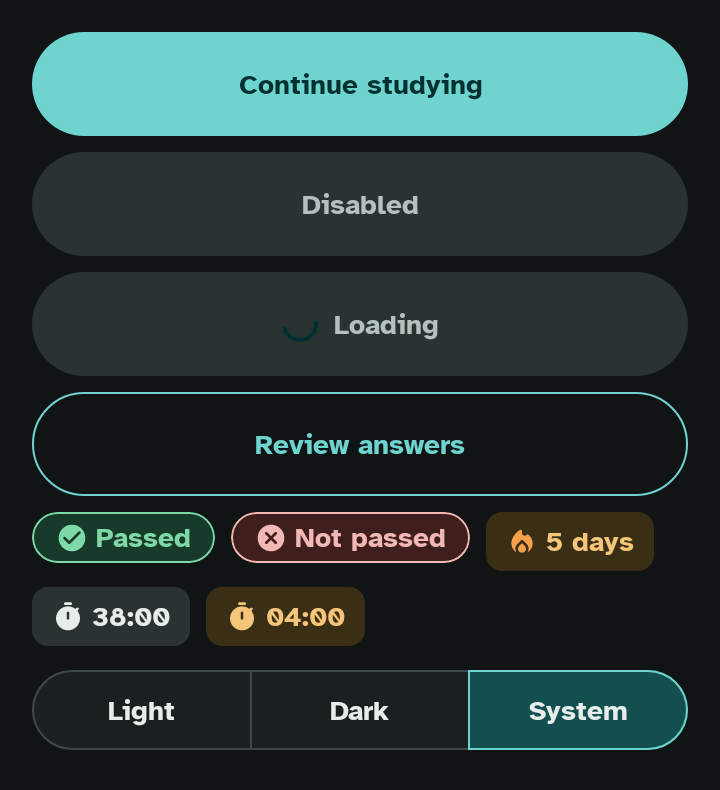
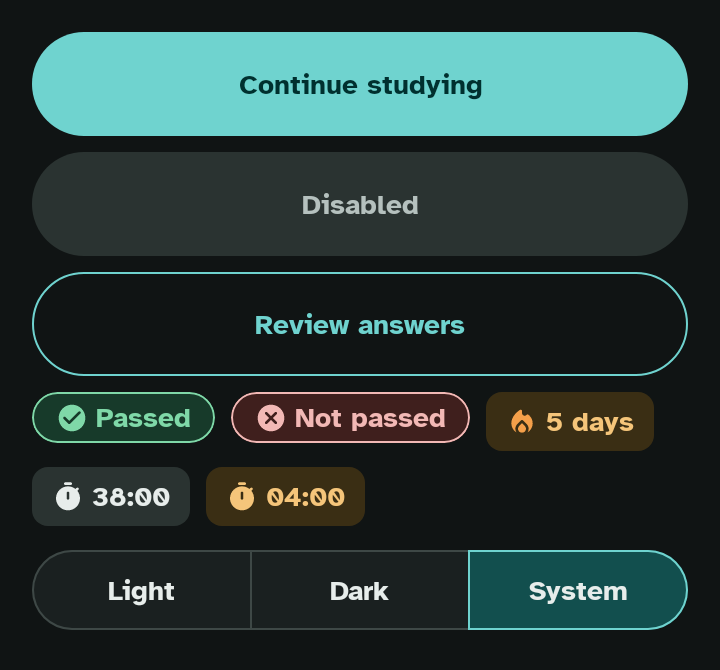
Make screenshot tests pass on Linux CI; update Actions versions
The CI runner anti-aliases rounded corners slightly differently from
macOS, so every screenshot failed on edge pixels alone. Comparisons now
allow a 1% difference, which still catches layout changes. The loading
button is left out of the screenshot because its endless spinner kept
the screen from going idle (a 5-minute wait per run). GitHub Actions
are updated to their current major versions.

diff --git a/core/designsystem/src/test/kotlin/com/myday/litu/core/designsystem/ComponentScreenshotTest.kt b/core/designsystem/src/test/kotlin/com/myday/litu/core/designsystem/ComponentScreenshotTest.kt
@@ -13,6 +13,8 @@ import androidx.compose.ui.Modifier
 import androidx.compose.ui.platform.LocalDensity
 import androidx.compose.ui.unit.Density
 import androidx.compose.ui.unit.dp
+import com.github.takahirom.roborazzi.RoborazziOptions
+import com.github.takahirom.roborazzi.ThresholdValidator
 import com.github.takahirom.roborazzi.captureRoboImage
 import com.myday.litu.core.designsystem.component.AnswerCard
 import com.myday.litu.core.designsystem.component.AnswerState
@@ -49,7 +51,11 @@ class ComponentScreenshotTest(private val variant: String) {
         fun variants() = listOf(arrayOf("light"), arrayOf("dark"), arrayOf("font200"))
     }
 
-    private fun shot(name: String, content: @Composable () -> Unit) = captureRoboImage("screenshots/${name}_$variant.png") {
+    // Mac and Linux anti-alias curved edges slightly differently; 1% tolerance ignores that while
+    // still catching layout changes.
+    private val options = RoborazziOptions(compareOptions = RoborazziOptions.CompareOptions(resultValidator = ThresholdValidator(0.01f)))
+
+    private fun shot(name: String, content: @Composable () -> Unit) = captureRoboImage("screenshots/${name}_$variant.png", options) {
         val theme = if (variant == "dark") ThemePreference.DARK else ThemePreference.LIGHT
         val base = LocalDensity.current
         CompositionLocalProvider(LocalDensity provides Density(base.density, if (variant == "font200") 2f else 1f)) {
@@ -69,7 +75,7 @@ class ComponentScreenshotTest(private val variant: String) {
     @Test fun buttonsAndBadges() = shot("buttons_badges") {
         LituButton("Continue studying", {})
         LituButton("Disabled", {}, enabled = false)
-        LituButton("Loading", {}, loading = true)
+        // The loading state is left out: its spinner never stops, so the screen never goes idle.
         LituButton("Review answers", {}, variant = ButtonVariant.SECONDARY)
         FlowRow(horizontalArrangement = Arrangement.spacedBy(8.dp), verticalArrangement = Arrangement.spacedBy(8.dp)) {
             PassFailBadge(true)
